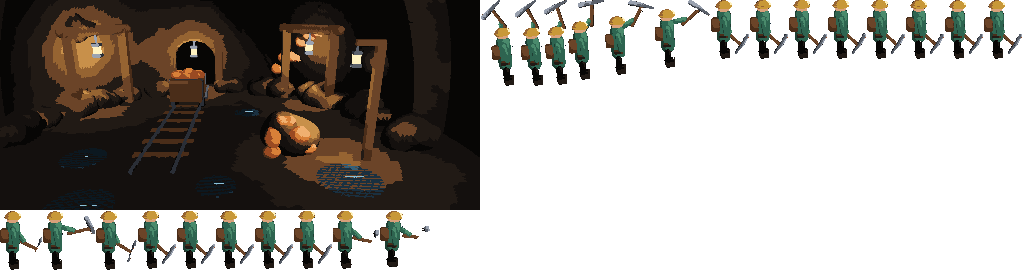
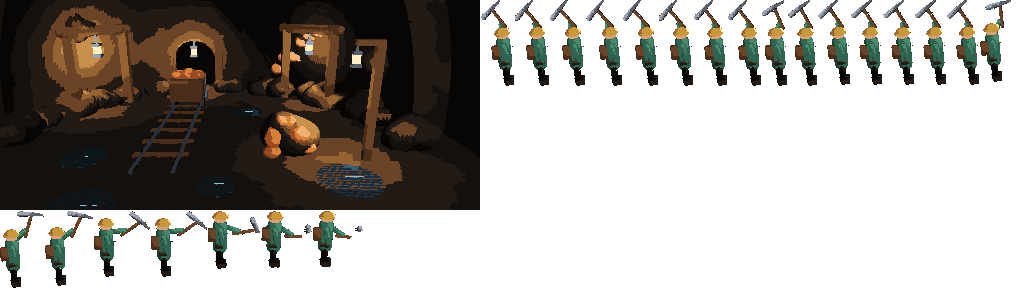
Mine: miner waits with the pick raised, strikes on each tap, ore count pops up over the boulder

Changed region(s): [[0.0, 0.0593, 0.4688, 1.0], [0.4688, 0.0, 1.0, 0.3259]]

diff --git a/splat/splat-scenes.js b/splat/splat-scenes.js
@@ -4,7 +4,7 @@
 // so it runs on any tablet; it only draws while its spot in the strip is on screen.
 //
 //   const s = SplatScenes.mount(el, 'forge');  s.start('Axe'); s.hit('P'); s.finish();
-//   const m = SplatScenes.mount(el, 'mine');   m.swing();
+//   const m = SplatScenes.mount(el, 'mine');   m.swing('+55 ore');
 (function () {
   const BASE = (document.currentScript && document.currentScript.src.replace(/[^/]*$/, '')) || 'splat/';
   const cache = {};
@@ -27,9 +27,10 @@
       embersFrom: [240, 60]
     },
     mine: {
-      dur: { idle: 1, swing: 0.6 },
+      dur: { idle: 1, strike: 0.12, recover: 0.38 },
       loops: {},
       hit: [266, 124],
+      popArea: [236, 300, 96, 112], // x0, x1, y0, y1: where the ore popups appear, above the boulder
       glows: [{ x: 97, y: 48, r: 26, c: '255,190,90', a: 0.16 }, { x: 193, y: 50, r: 22, c: '255,190,90', a: 0.14 },
         { x: 309, y: 46, r: 26, c: '255,190,90', a: 0.16 }, { x: 357, y: 62, r: 28, c: '255,190,90', a: 0.18 }]
     }
@@ -87,7 +88,6 @@
           if (ended === 'idle' || ended === 'ready') this.segT %= d;
           else { this.after(ended); if (this.onEnd) this.onEnd(ended); }
         }
-        if (this.seg === 'swing' && !this.chipped && this.segT >= 0.27) { this.chipped = true; this.burst(this.cfg.hit, 8, ['#d88038', '#f0b070', '#9a4a22', '#584738'], 0.9); }
         this.step(dt);
         this.draw();
         this.tick();
@@ -163,8 +163,29 @@
     lowerNow() { this.finishing = false; this.variant = ''; this.play('lower', ['idle']); }
   }
   class Mine extends Scene {
-    constructor(el) { super(el, 'mine'); }
-    swing() { this.chipped = false; this.play('swing', ['idle']); }
+    constructor(el) { super(el, 'mine'); this.onEnd = seg => { if (seg === 'strike') this.landed(); }; }
+    // he waits with the pick up; a tap is an instant strike, chips fly and the ore count pops up over the boulder
+    swing(label) {
+      if (this.seg === 'strike') this.landed(); // tapping faster than the swing: count the blow that was under way
+      this.label = label; this.play('strike', ['recover', 'idle']);
+    }
+    landed() {
+      this.burst(this.cfg.hit, 8, ['#d88038', '#f0b070', '#9a4a22', '#584738'], 0.9);
+      if (this.label) this.pop(this.label);
+      this.label = null;
+    }
+    pop(text) {
+      if (!this.meta || !this.cv.width) return;
+      const [x0, x1, y0, y1] = this.cfg.popArea, x = x0 + Math.random() * (x1 - x0), y = y0 + Math.random() * (y1 - y0);
+      const e = document.createElement('span');
+      e.textContent = text;
+      e.style.cssText = `position:absolute;left:${(((x - this.ox) / this.cv.width) * 100).toFixed(1)}%;top:${(((y - this.oy) / this.cv.height) * 100).toFixed(1)}%;` +
+        'transform:translate(-50%,-50%);z-index:3;pointer-events:none;white-space:nowrap;font-weight:800;font-size:15px;color:#f3cf6a;' +
+        'text-shadow:0 1px 0 #2a1608,0 0 6px rgba(0,0,0,.8)';
+      this.el.appendChild(e);
+      if (e.animate) e.animate([{ transform: 'translate(-50%,-50%)', opacity: 1 }, { transform: 'translate(-50%,-50%) translateY(-6px)', opacity: 1, offset: 0.35 }, { transform: 'translate(-50%,-50%) translateY(-26px)', opacity: 0 }], { duration: 850, easing: "ease-out" });
+      setTimeout(() => e.remove(), 860);
+    }
   }
 
   window.SplatScenes = {

diff --git a/splat/art/toy-mine.js b/splat/art/toy-mine.js
@@ -2,7 +2,7 @@
 // A cut-away cavern: a rock dome, timber frames with hanging lanterns, a tunnel mouth with rails and an ore cart,
 // puddles on the floor, a copper vein in the wall, and a slim miner who swings a pickaxe at an ore boulder.
 // Environment variables pick what is drawn (for the toy's sprite layers): TOY_WORKER=0 parks the miner out of view.
-// The clip: idle 0-1 s (pick resting), swing 1-1.6 (raise 1-1.3, strike 1.3-1.45, recover 1.45-1.6).
+// The clip: ready 0-1 s (pick raised over his shoulder, waiting for a tap), strike 1-1.12 (lands at 1.12), recover 1.12-1.5 (back up to ready).
 module.exports = ({ makeBuilder, makeSculpt, KIT: K }) => {
   const PAL = [
     0x070605, 0x14100e, 0x211a16, 0x30261f, 0x42352b, 0x584738, 0x725d4a, // 0-6 cave stone (umber)
@@ -155,12 +155,12 @@ module.exports = ({ makeBuilder, makeSculpt, KIT: K }) => {
     K.puppet(W, {
       parts: { body: { ids: tags.body, pivot: P(0, 0.2, 0), slices: 4 }, arm: { ids: tags.arm, pivot: SH, parent: 'body', slices: 2 } },
       pose(t, dt, pup) {
-        const ease = x => x * x * (3 - 2 * x), DOWN = -0.35;
+        // Jonathan (Nov 18): he waits with the pick up, and every tap is an instant strike
+        const ease = x => x * x * (3 - 2 * x);
         let lift, squash = 0, breathe = 0;
-        if (t < 1) { lift = DOWN; breathe = Math.sin(t * Math.PI * 2); }
-        else if (t < 1.3) lift = DOWN + (1 - DOWN) * ease((t - 1) / 0.3);
-        else if (t < 1.45) { const k = (t - 1.3) / 0.15; lift = 1 - k * k; if (k > 0.8) squash = 1; }
-        else { const k = (t - 1.45) / 0.15; lift = DOWN * ease(k); squash = Math.max(0, 1 - k * 2.5); }
+        if (t < 1) { breathe = Math.sin(t * Math.PI * 2); lift = 1 + 0.04 * breathe; }
+        else if (t < 1.12) { const k = (t - 1) / 0.12; lift = 1 - k * k; if (k > 0.9) squash = 1; }
+        else { const k = Math.min(1, (t - 1.12) / 0.38); lift = ease(k); squash = Math.max(0, 1 - k * 3); }
         pup.pose.arm = { rot: [0, 0, lift * 120] };
         pup.pose.body = { rot: [0, 0, Math.max(0, lift) * 6 - squash * 4], scale: [1 + 0.04 * squash, 1 - 0.05 * squash + 0.012 * breathe, 1 + 0.04 * squash] };
       }

diff --git a/index.html b/index.html
@@ -1169,9 +1169,11 @@ function autoRow(){if(U('prospector')<10)return '';const c=autoCost(),l=S.autopi
 function mastRows(){return UNITS.filter(u=>mastOpen(u.k)||(S.mast||{})[u.k]).map(u=>{const n=(S.mast||{})[u.k]||0,open=mastOpen(u.k),c=mastCost(u.k);
   return `<div class="order"><div><b>${u.n} mastery</b> · level ${n}<div class="note">${u.n}s dig +${n*10}% ore now. Every 100 ${u.n}s (and 10 more Researchers) opens another +10%.</div></div>${open?`<button class="b sm" data-mast="${u.k}" ${S.ore<c?'disabled':''}>${fmtN(c)} ore</button>`:`<span class="note">Next at ${100*(n+1)} ${u.n}s, ${10*(n+1)} Researchers</span>`}</div>`}).join('')}
 function dig(btn,e){
-  const n=orePerTap();S.ore+=n;tally().taps=(tally().taps||0)+1;chips();if(SPLAT.mine)SPLAT.mine.swing();
-  const r=btn.getBoundingClientRect(),p=document.createElement('span');p.className='pop';p.textContent=`+${n} ore`;
-  p.style.left=((e.clientX||r.left+r.width/2)-r.left)+'px';p.style.top=((e.clientY||r.top+r.height/2)-r.top)+'px';btn.appendChild(p);setTimeout(()=>p.remove(),700);
+  const n=orePerTap();S.ore+=n;tally().taps=(tally().taps||0)+1;chips();
+  // with the splat mine showing, the miner strikes and the +ore pops up over the boulder in the art (Jonathan, 2026-11-18); otherwise it pops on the button
+  if(SPLAT.mine&&SPLAT.mine.meta)SPLAT.mine.swing(`+${fmtN(n)} ore`);
+  else{const r=btn.getBoundingClientRect(),p=document.createElement('span');p.className='pop';p.textContent=`+${n} ore`;
+  p.style.left=((e.clientX||r.left+r.width/2)-r.left)+'px';p.style.top=((e.clientY||r.top+r.height/2)-r.top)+'px';btn.appendChild(p);setTimeout(()=>p.remove(),700)}
   btn.classList.remove('bump');void btn.offsetWidth;btn.classList.add('bump');
 }
 function showModal(html){$('#modal').innerHTML=`<div class="modal"><div class="sheet" role="dialog" aria-modal="true">${html}</div></div>`}

diff --git a/splat/tools/render.js b/splat/tools/render.js
@@ -25,7 +25,7 @@ const SCENES = {
     },
     hit: { a: { TOY_FIRE: '0', TOY_PIECE: 'bar' }, b: { TOY_FIRE: '0' }, t: 1 }
   },
-  // clip: idle 0-1 s, swing 1-1.6 (raise 1-1.3, strike 1.3-1.45, recover 1.45-1.6) (art/toy-mine.js)
+  // clip: ready-and-waiting 0-1 s, strike 1-1.12, recover 1.12-1.5 (art/toy-mine.js)
   mine: {
     file: 'toy-mine.js',
     view: ['--tone', 'off', '--zoom', '2.6', '--target', '0.7,0.95,0.3'],
@@ -34,7 +34,8 @@ const SCENES = {
     actor: { env: {}, variants: [''] },
     seg: {
       idle: { t: steps(0, 1, 12), variants: false },
-      swing: { t: [1.0, 1.06, 1.12, 1.18, 1.24, 1.3, 1.34, 1.38, 1.42, 1.45, 1.5, 1.55], variants: false }
+      strike: { t: [1.0, 1.04, 1.075, 1.1, 1.12], variants: false },
+      recover: { t: [1.15, 1.2, 1.26, 1.32, 1.38, 1.44], variants: false }
     }
   }
 };
